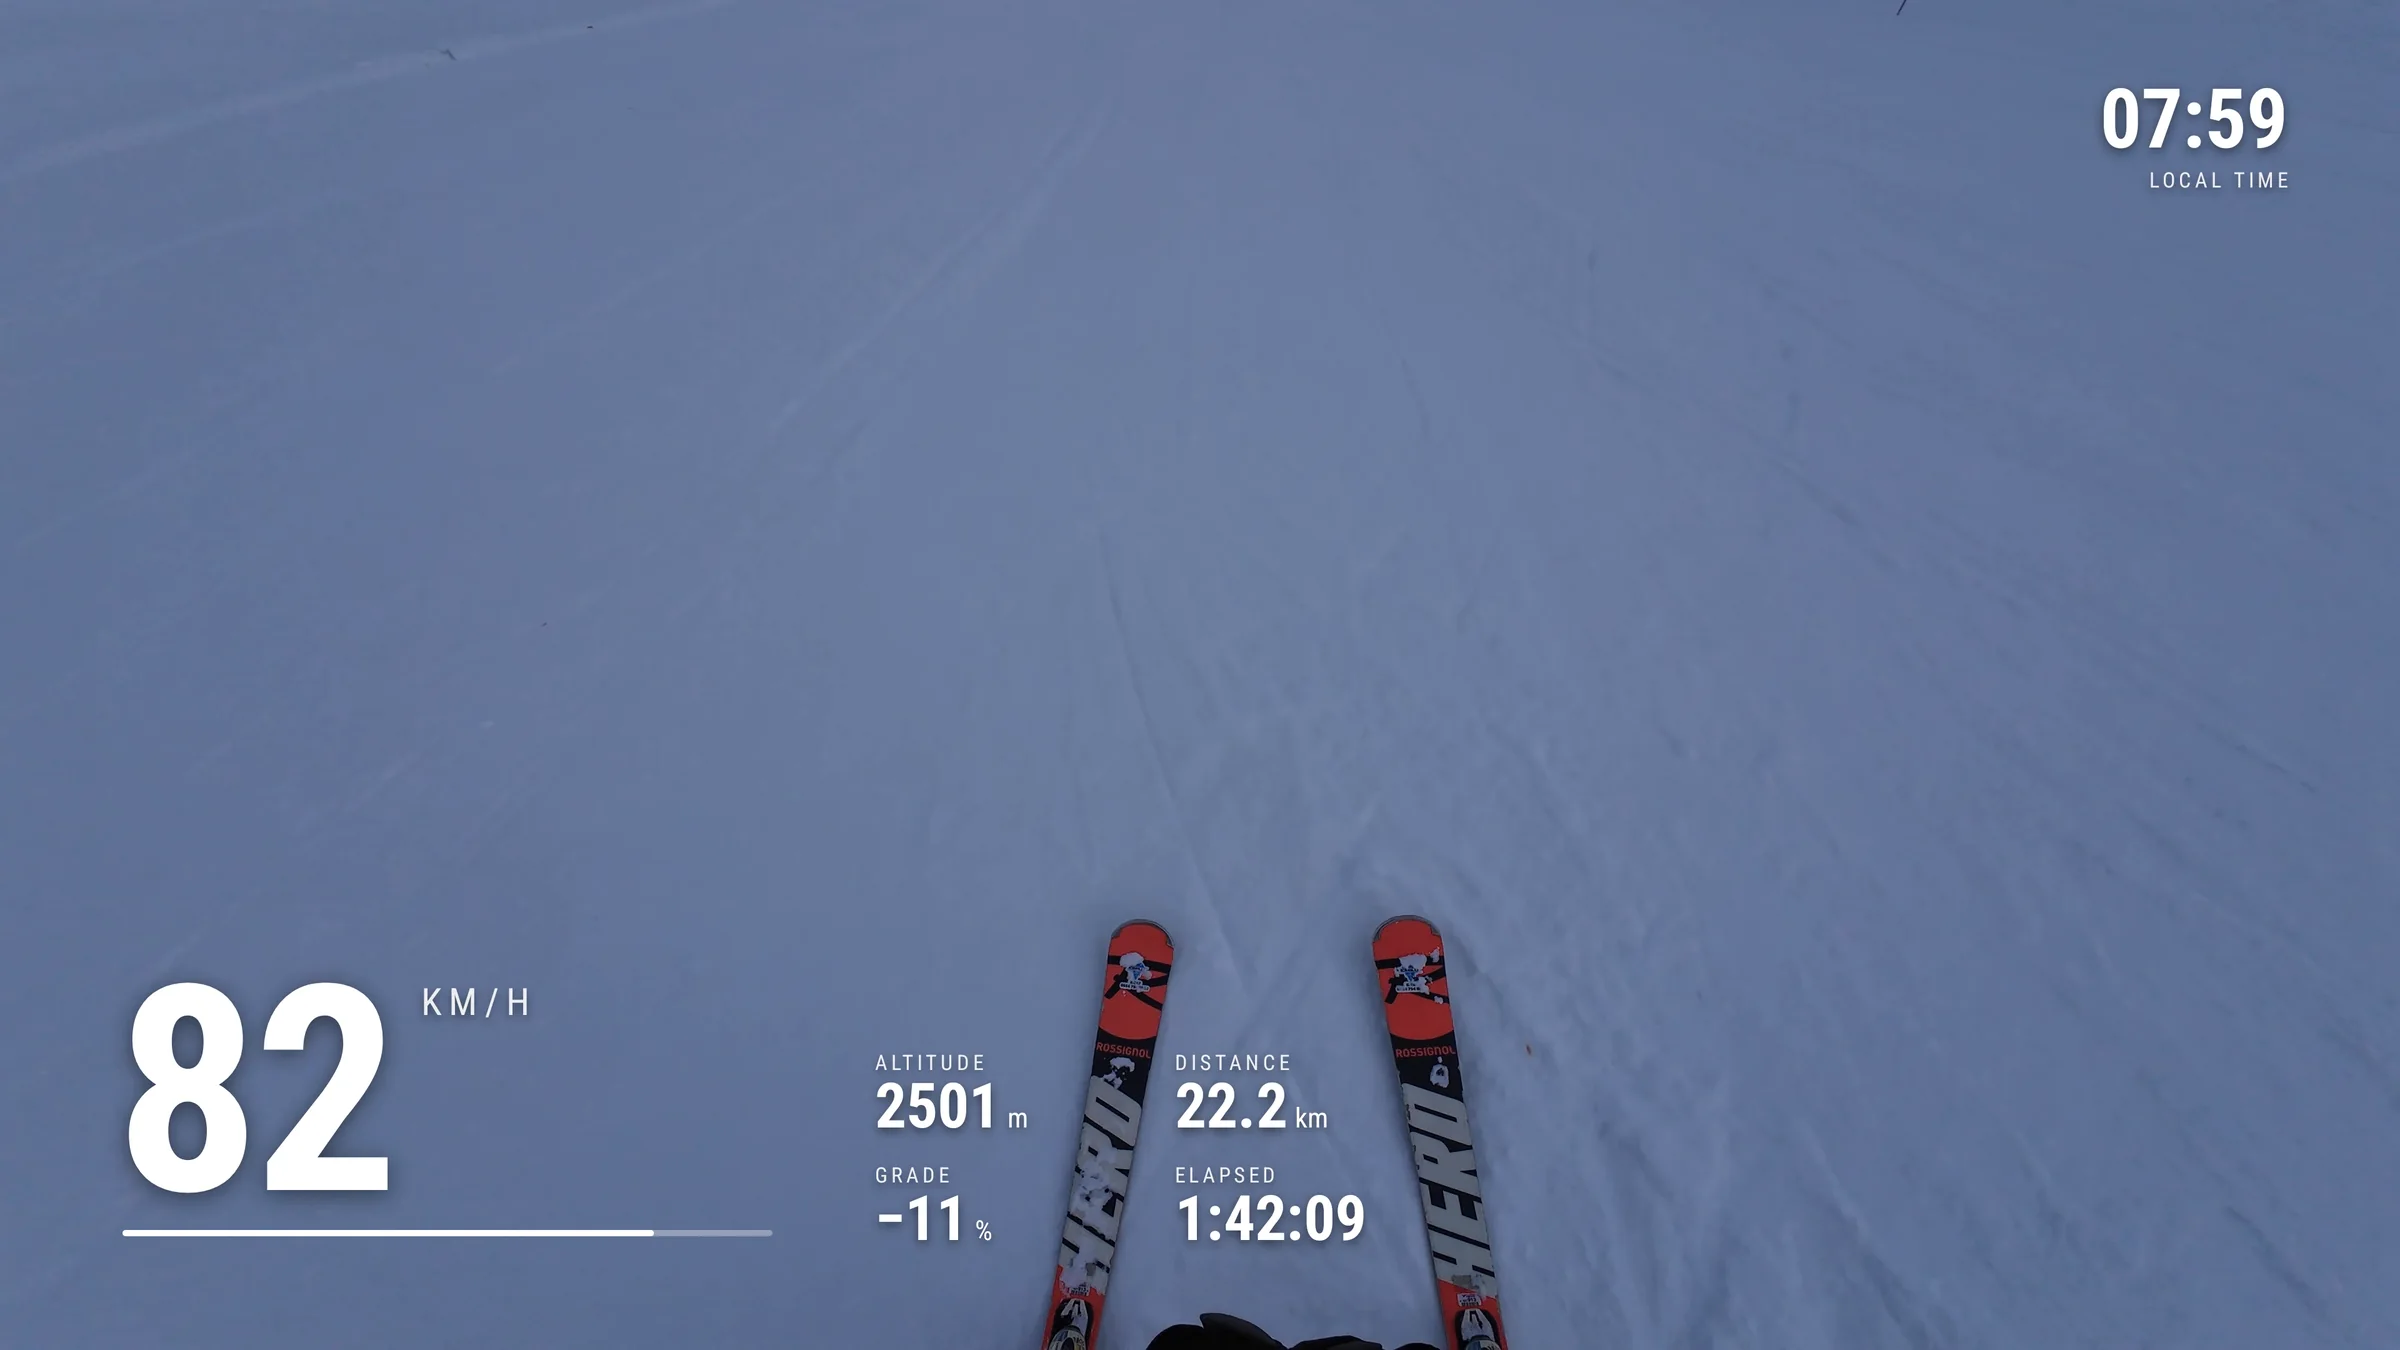
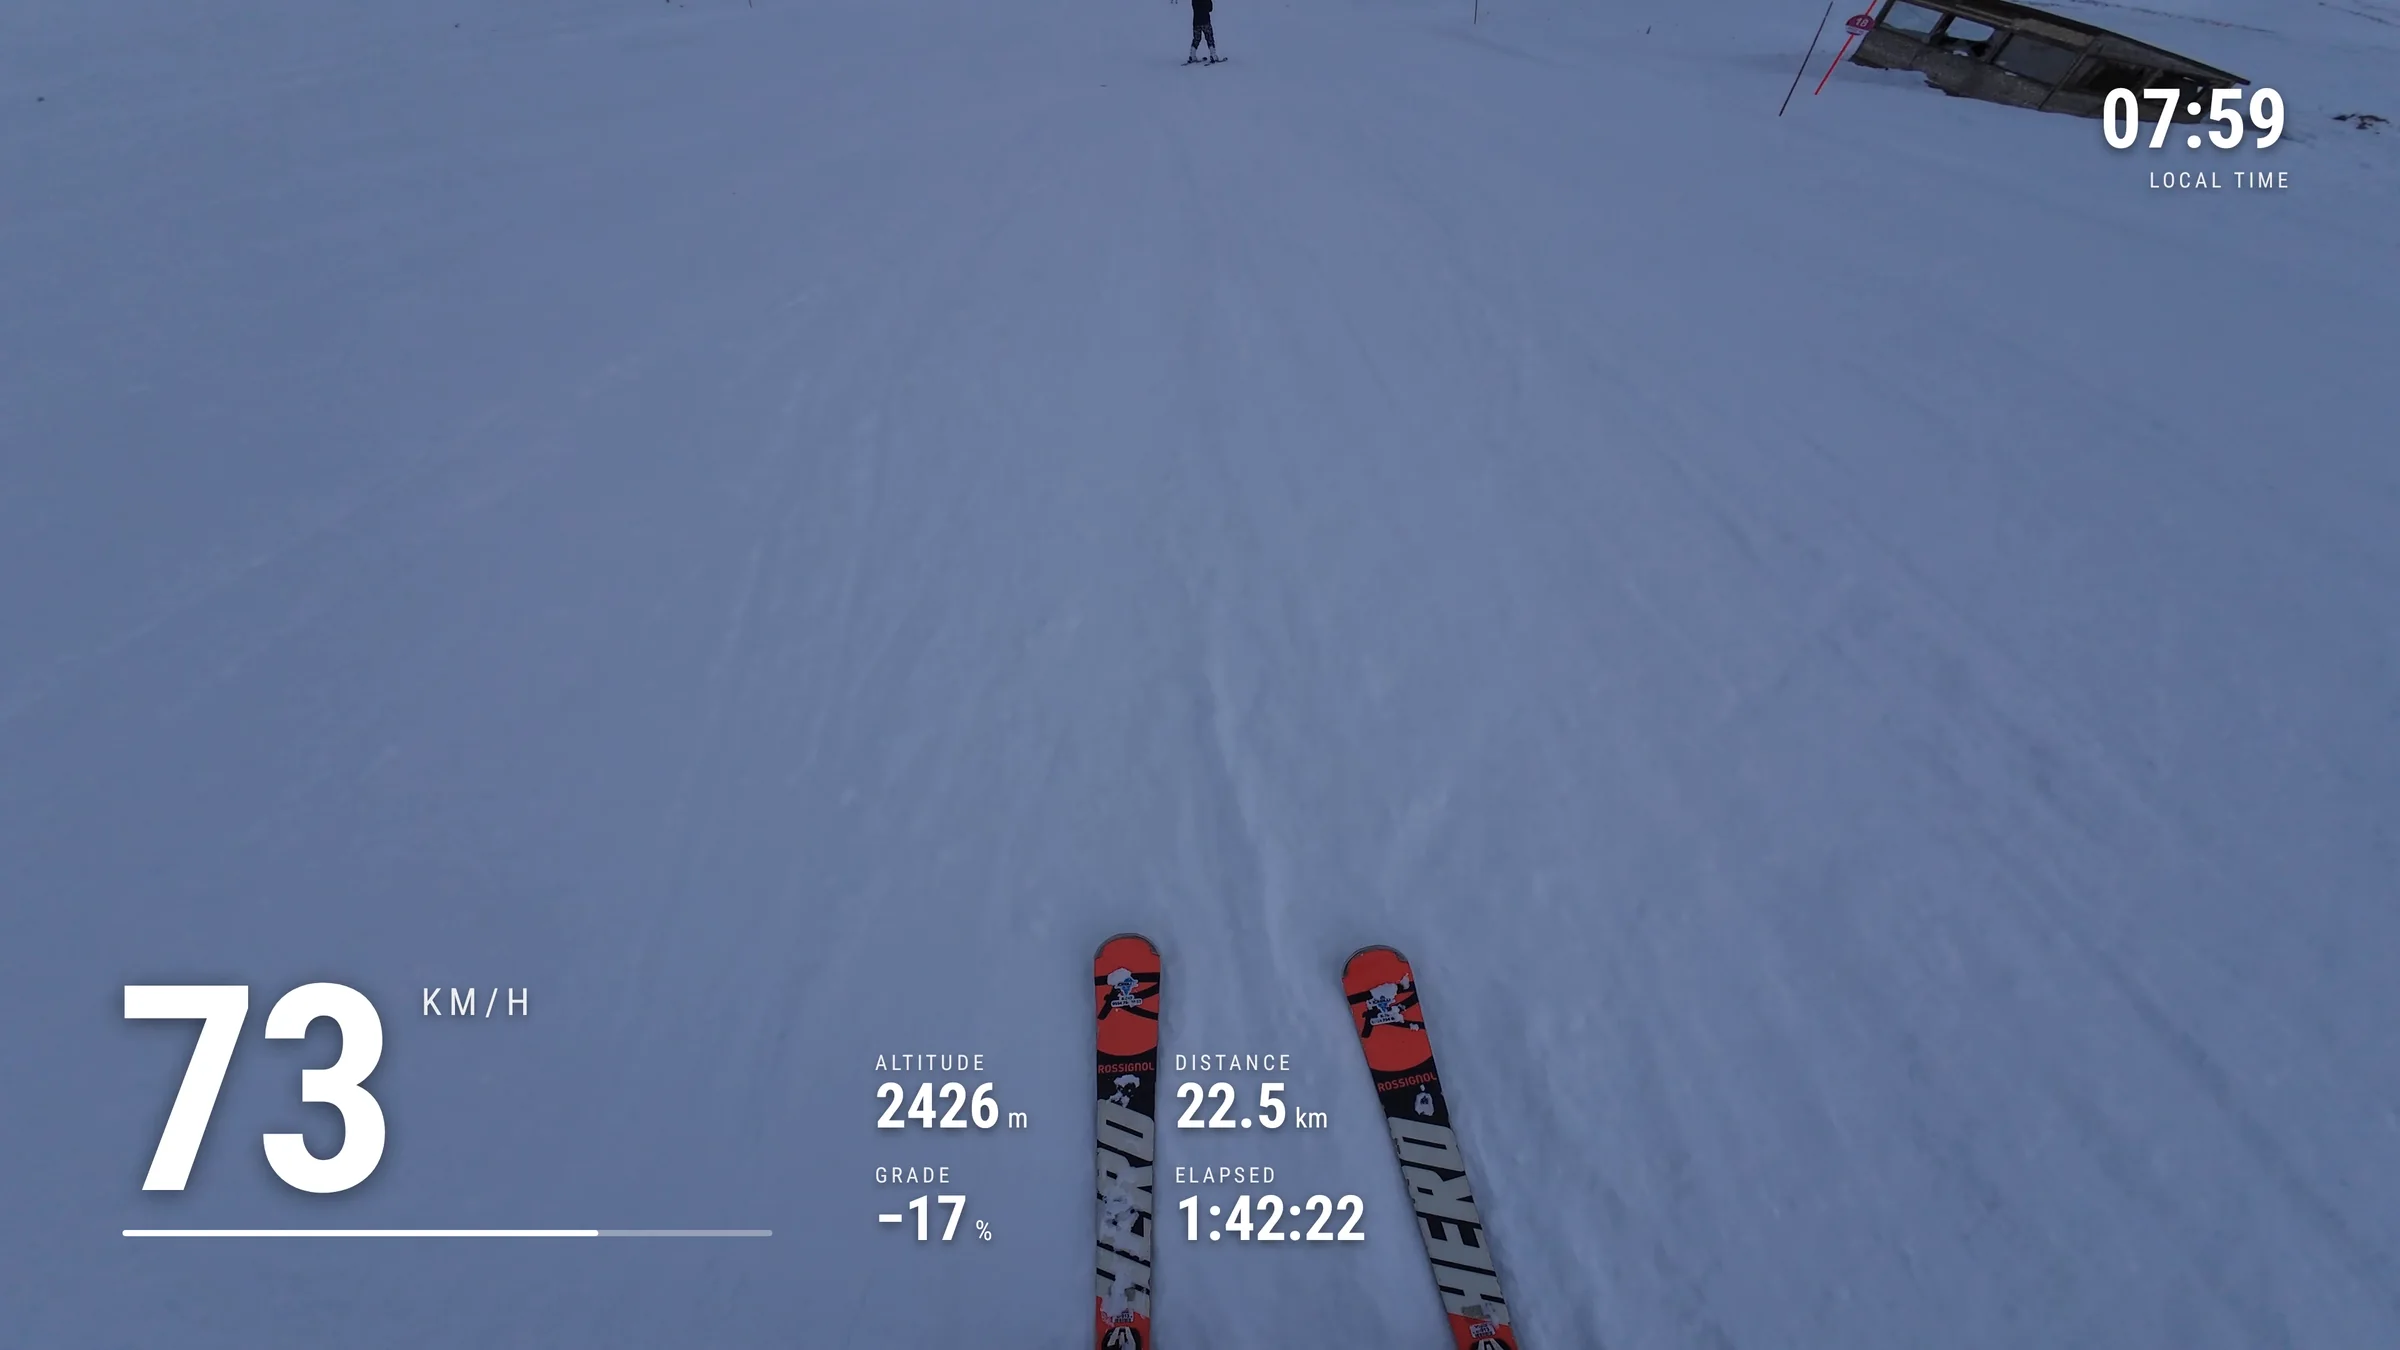
Publish site from overlayer@69fce3b

diff --git a/index.html b/index.html
@@ -98,12 +98,16 @@
         </article>
 
         <article class="card c-gauges" id="gauges">
-          <div class="txt"><h3>19 gauges</h3><p>Clean rings and numbers, or real aviation and motorsport instruments in 5 finishes. Place them anywhere.</p></div>
-          <ul class="dials">
-            <li><img src="img/gauge-chrono.webp" width="300" height="300" loading="lazy" decoding="async" alt="Chronograph speedometer"></li>
-            <li><img src="img/gauge-rev.webp" width="300" height="300" loading="lazy" decoding="async" alt="Rev counter"></li>
-            <li><img src="img/gauge-attitude.webp" width="300" height="300" loading="lazy" decoding="async" alt="Attitude indicator"></li>
-            <li><img src="img/gauge-airspeed.webp" width="300" height="300" loading="lazy" decoding="async" alt="Airspeed dial"></li>
+          <div class="txt"><h3>19 gauges, many looks</h3><p>Big numbers, line and bar gauges, segment arcs, digital readouts, altitude charts and tapes, compasses and maps, plus real aviation and motorsport instruments in 5 finishes. Place them anywhere.</p></div>
+          <ul class="tiles">
+            <li><img src="img/gauge-line.webp" width="300" height="300" loading="lazy" decoding="async" alt="Speed as a big number over a thin line bar with a scale from 0 to 80"><span>Line bar</span></li>
+            <li><img src="img/gauge-digital.webp" width="300" height="300" loading="lazy" decoding="async" alt="Speed in large blue digits on a dark panel"><span>Digital</span></li>
+            <li><img src="img/gauge-segments.webp" width="300" height="300" loading="lazy" decoding="async" alt="Speed inside an arc of segments that fill as you go faster"><span>Segment arc</span></li>
+            <li><img src="img/gauge-ring.webp" width="300" height="300" loading="lazy" decoding="async" alt="Speed inside a modern ring gauge"><span>Ring</span></li>
+            <li><img src="img/gauge-profile.webp" width="300" height="300" loading="lazy" decoding="async" alt="Altitude profile of the route with a dot at your position"><span>Altitude chart</span></li>
+            <li><img src="img/gauge-tape.webp" width="300" height="300" loading="lazy" decoding="async" alt="Vertical altitude tape scrolling past a pointer"><span>Altitude tape</span></li>
+            <li><img src="img/gauge-htape.webp" width="300" height="300" loading="lazy" decoding="async" alt="Compass heading tape reading ENE 066 degrees"><span>Heading tape</span></li>
+            <li><img src="img/gauge-rev.webp" width="300" height="300" loading="lazy" decoding="async" alt="Car rev counter with a red line and a digital speed readout"><span>Rev counter</span></li>
           </ul>
         </article>
 

diff --git a/assets/site.css b/assets/site.css
@@ -135,8 +135,10 @@ h3 { font-weight: 700; font-size: 1.2rem; text-transform: uppercase; letter-spac
 .c-privacy { grid-column: span 4; flex-direction: row; flex-wrap: wrap; align-items: center; gap: 12px 24px; }
 .c-privacy .txt { flex: 1 1 280px; }
 .c-privacy .perm { flex: 2 1 420px; }
-.dials { list-style: none; margin: 0; padding: 0; display: grid; grid-template-columns: repeat(4, minmax(0, 1fr)); gap: 10px; }
-.dials img { width: 100%; aspect-ratio: 1; clip-path: circle(42.5% at 50% 50%); }
+.tiles { list-style: none; margin: 0; padding: 0; display: grid; grid-template-columns: repeat(4, minmax(0, 1fr)); gap: 8px; }
+.tiles li { display: grid; gap: 4px; }
+.tiles img { width: 100%; aspect-ratio: 1; border-radius: 8px; }
+.tiles span { font: 600 0.78rem/1.1 var(--display); letter-spacing: 0.05em; text-transform: uppercase; color: var(--muted); }
 .chips { list-style: none; margin: 0; padding: 0; display: grid; grid-template-columns: repeat(4, minmax(0, 1fr)); gap: 8px; }
 .chips li { background: var(--surface-2); border: 1px solid var(--line); border-radius: 10px; padding: 8px 12px; font-size: 0.85rem; color: var(--muted); display: grid; gap: 2px; }
 .chips b { font: 0.95rem/1 var(--mono); color: var(--sky); }
